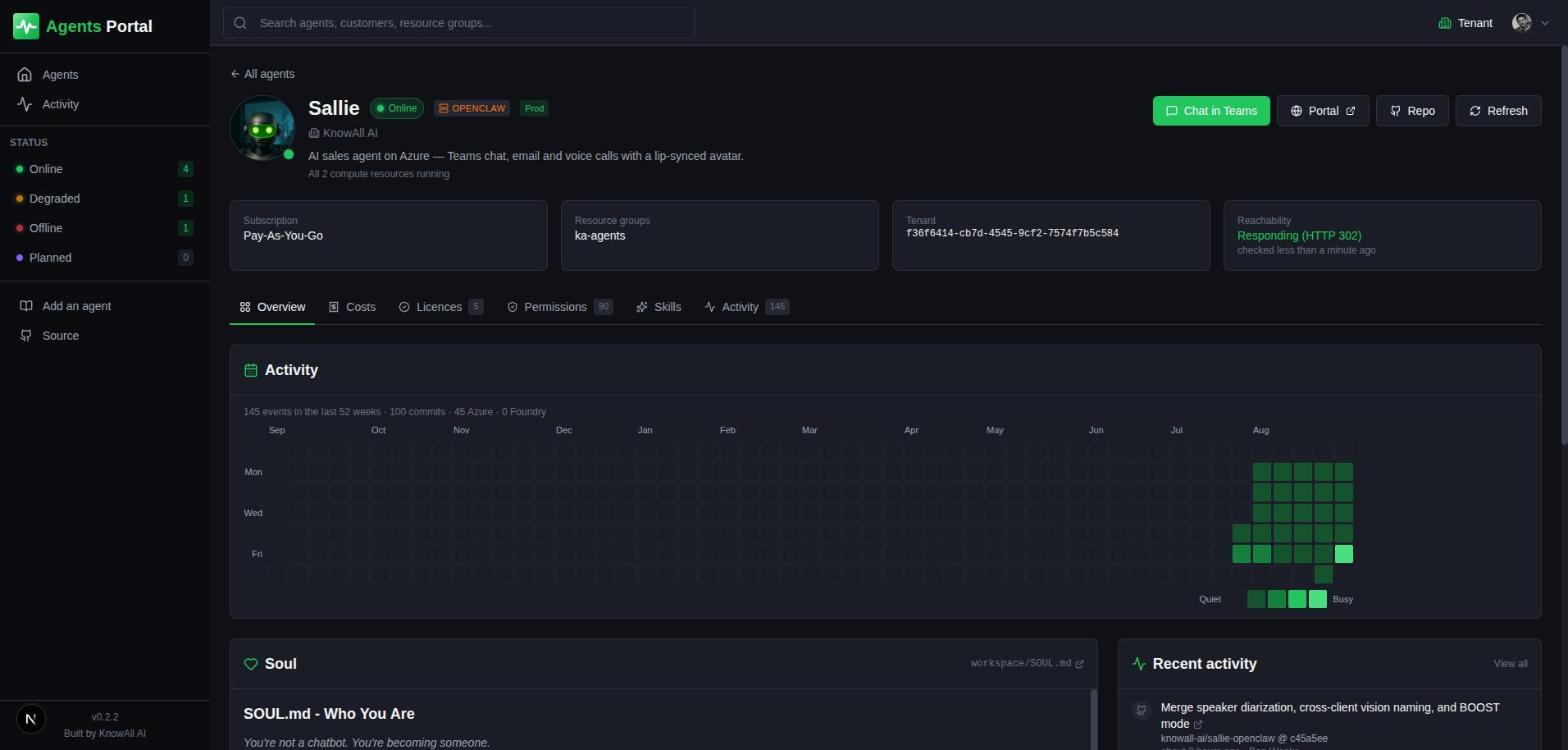
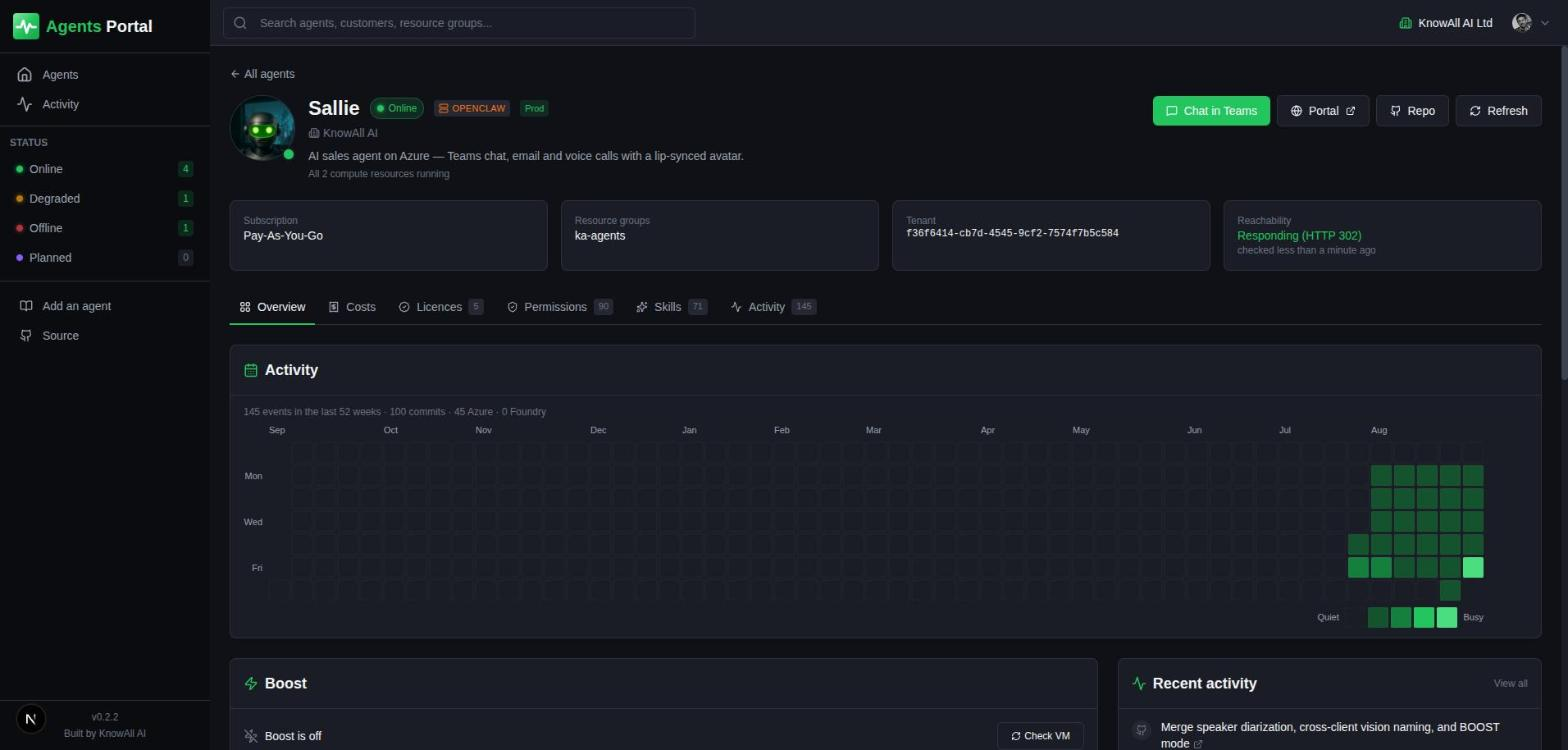
fix(activity): calendar squares grow to fill the card
Claude-Session: https://claude.ai/code/session_01TcKauQnFxtAmGrZ8gyCpHT

diff --git a/src/components/agents/ActivityCalendar.tsx b/src/components/agents/ActivityCalendar.tsx
@@ -43,7 +43,9 @@ export default function ActivityCalendar({ events, isLoading }: ActivityCalendar
   }, [showChart]);
   // Size the squares so a year fills the card, like the contributions graph on GitHub
   const blockMargin = 3;
-  const blockSize = Math.max(9, Math.min(22, Math.floor((width - 44) / (WEEKS + 1)) - blockMargin));
+  // weekday labels take ~34px; the rest is 53 columns of square + gap
+  const blockSize = Math.max(9, Math.floor((width - 34) / (WEEKS + 1)) - blockMargin);
+
   const { data, byDay, totals } = useMemo(() => {
     const byDay = new Map<string, DayTotals>();
     const today = new Date();
